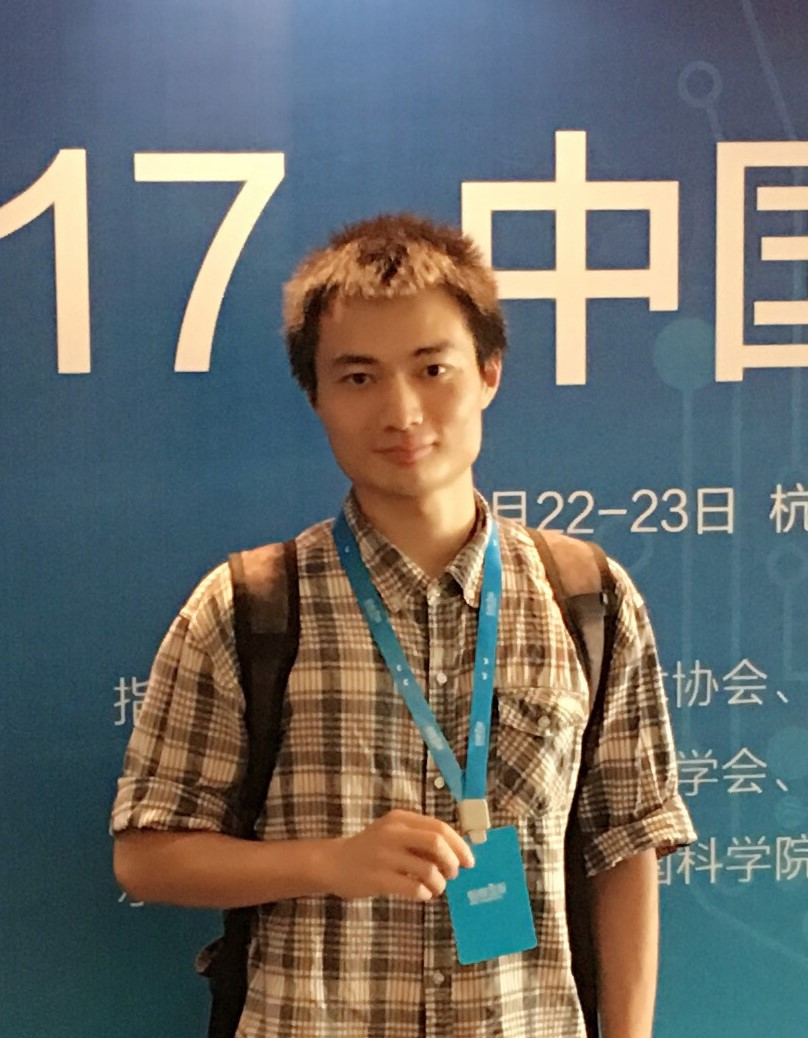
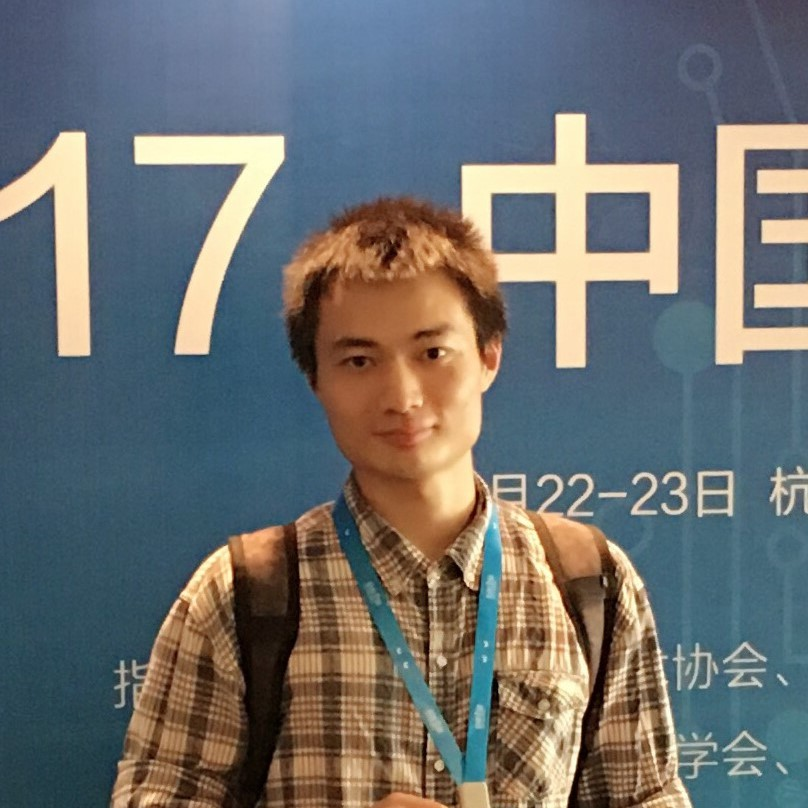
update

diff --git a/_pages/about.md b/_pages/about.md
@@ -7,7 +7,7 @@ subtitle: <a href='http://ariselab.cse.cuhk.edu.hk/'>ARISE Lab</a>. Department o
 profile:
   align: right
   image: pic.jpg
-  image_circular: false # crops the image to make it circular
+  image_circular: true # crops the image to make it circular
   address: >
     <p>101A, 1/F, SHB</p>
     <p>CHUK, Shatin, N.T.</p>
